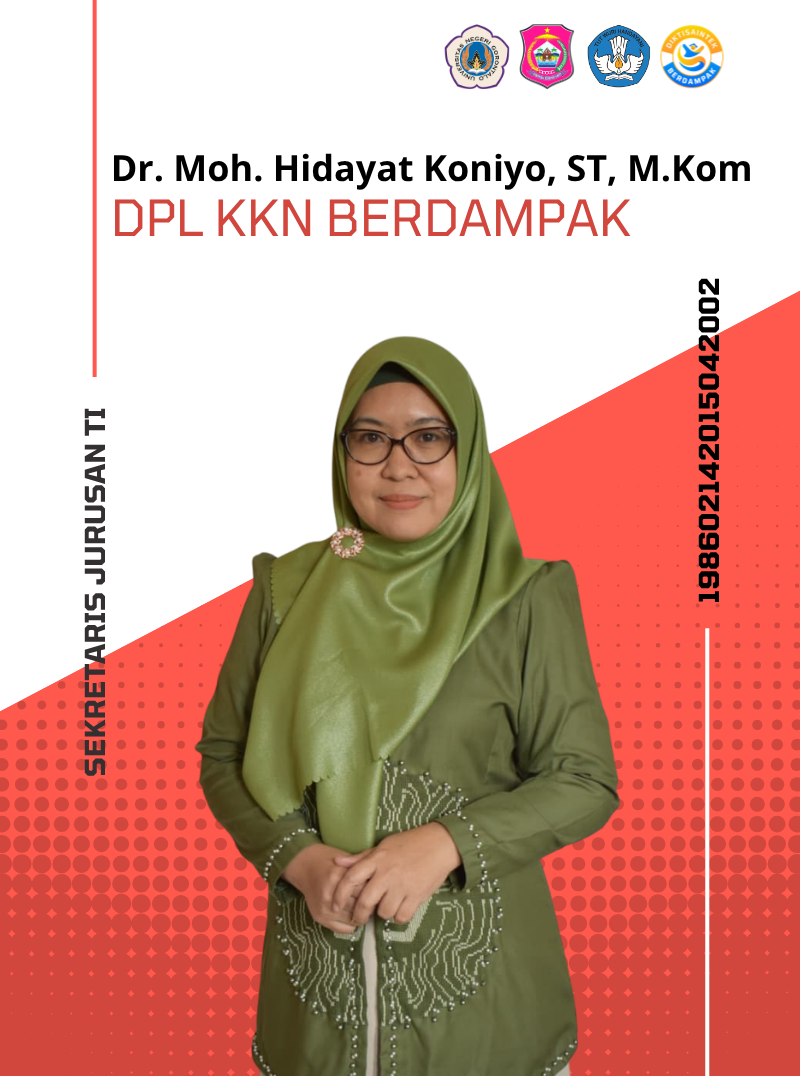
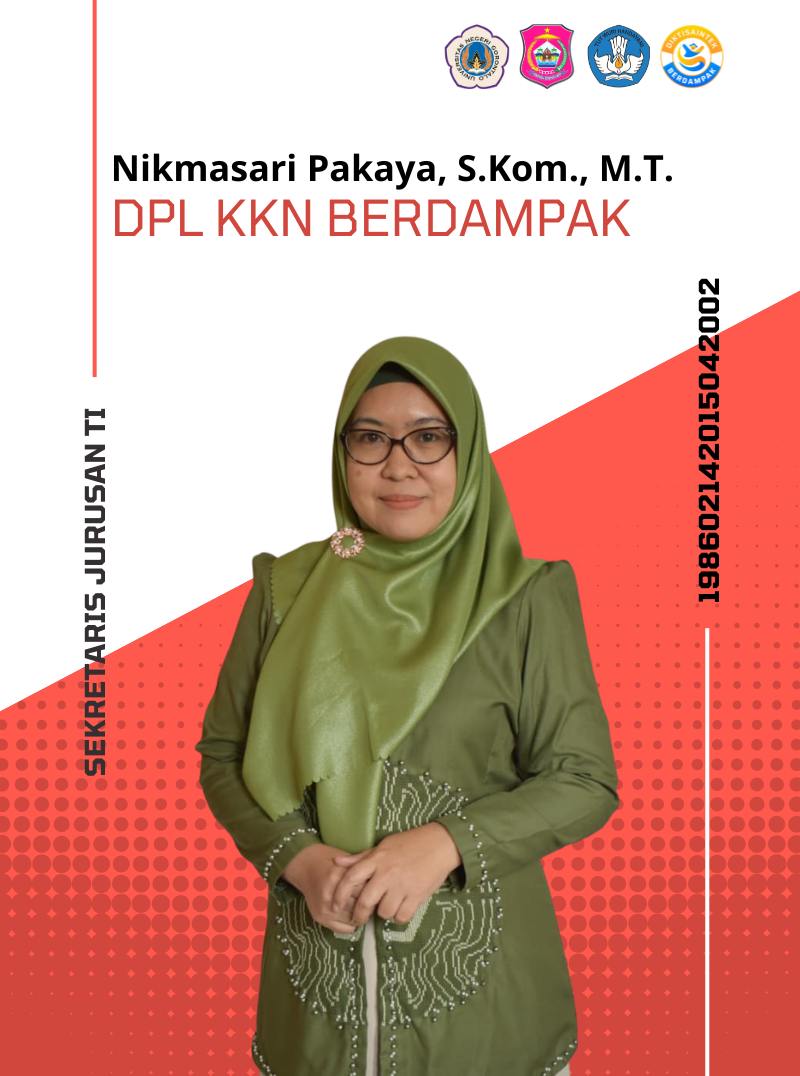
Feat: update & Fix foto anggota✅

Changed region(s): [[0.1562, 0.1227, 0.9375, 0.184], [0.75, 0.0613, 0.7812, 0.092]]

diff --git a/app/data/anggota.ts b/app/data/anggota.ts
@@ -20,7 +20,7 @@ export const teamMembers: AnggotaItem[] = [
     slug: 'i-wayan-arya-aditya',
     name: 'I Wayan Arya Aditya',
     role: 'Koordinator Desa',
-    photo: '/anggota/KORDES.png',
+    photo: '/anggota/wayan.png',
     instagram: '#',
     linkedin: '#',
     email: 'wayan@kkn.ac.id',
@@ -32,7 +32,7 @@ export const teamMembers: AnggotaItem[] = [
     slug: 'rizki-ibrahim',
     name: 'Rizki Ibrahim',
     role: 'Wakil Koordinator Desa',
-    photo: '/anggota/WAKORDES.png',
+    photo: '/anggota/rizky.png',
     instagram: '#',
     linkedin: '#',
     email: 'rizki@kkn.ac.id',
@@ -44,7 +44,7 @@ export const teamMembers: AnggotaItem[] = [
     slug: 'Nazly-siti-zulaiha-napu',
     name: 'Nazly siti zulaiha Napu',
     role: 'Sekretaris',
-    photo: '/anggota/SEKRETARIS.png',
+    photo: '/anggota/nazly.png',
     instagram: '#',
     email: 'nazly@kkn.ac.id',
     nim: '531423006',
@@ -55,7 +55,7 @@ export const teamMembers: AnggotaItem[] = [
     slug: 'suci-rahmawaty-utina',
     name: 'Suci Rahmawaty Utina',
     role: 'Bendahara',
-    photo: '/anggota/BENDAHARA.png',
+    photo: '/anggota/suci.png',
     instagram: '#',
     linkedin: '#',
     nim: '531423024',
@@ -66,7 +66,7 @@ export const teamMembers: AnggotaItem[] = [
     slug: 'alya-awaliyah-tokalang',
     name: 'Alya Awaliyah Tokalang',
     role: 'Koordinator Acara',
-    photo: '/anggota/ACARA.png',
+    photo: '/anggota/alya.png',
     instagram: '#',
     nim: '531423013',
     bio: 'Memastikan kebutuhan logistik lapangan terpenuhi selama kegiatan berlangsung di lokasi program.'
@@ -76,7 +76,7 @@ export const teamMembers: AnggotaItem[] = [
     slug: 'rashyid-ridho-akuba',
     name: 'Rashyaid Ridho Akuba',
     role: 'Koordinator Humas',
-    photo: '/anggota/PUBDOK.png',
+    photo: '/anggota/ridho.png',
     instagram: '#',
     linkedin: '#',
     nim: '531423077',
@@ -87,7 +87,7 @@ export const teamMembers: AnggotaItem[] = [
     slug: 'zulvkry-andre-lantu',
     name: 'Zulvkry Andre Lantu',
     role: 'Koordinator Perlengkapan',
-    photo: '/anggota/PERLENGKAPAN.png',
+    photo: '/anggota/andre.png',
     instagram: '#',
     nim: '531423083',
     bio: 'Mendokumentasikan setiap kegiatan agar hasil program dapat dipublikasikan dengan baik.'
@@ -97,7 +97,7 @@ export const teamMembers: AnggotaItem[] = [
     slug: 'alif-bima-pradana',
     name: 'Alif Bima Pradana',
     role: 'Anggota',
-    photo: '/anggota/ANGGOTA.png',
+    photo: '/anggota/alif.png',
     instagram: 'https://www.instagram.com/alifbimapradana07/',
     linkedin: 'https://www.linkedin.com/in/alif-bima-pradana/',
     github: 'https://github.com/4lifbima/',
@@ -111,7 +111,7 @@ export const teamMembers: AnggotaItem[] = [
     slug: 'raya-rizali-mutawakkil-mantau',
     name: 'Raya Rizali Mutawakkil Mantau',
     role: 'Anggota',
-    photo: '/anggota/ANGGOTA-2.png',
+    photo: '/anggota/raya.png',
     instagram: '#',
     linkedin: '#',
     nim: '531423054',
@@ -122,7 +122,7 @@ export const teamMembers: AnggotaItem[] = [
     slug: 'ilham-ts-bullah',
     name: 'Ilham TS Bullah',
     role: 'Anggota',
-    photo: '/anggota/ANGGOTA-3.png',
+    photo: '/anggota/ilham.png',
     instagram: '#',
     linkedin: '#',
     nim: '531423078',
@@ -133,7 +133,7 @@ export const teamMembers: AnggotaItem[] = [
     slug: 'sitti-rahwati-moki',
     name: 'Sitti Rahwati Moki',
     role: 'Anggota',
-    photo: '/anggota/ANGGOTA-4.png',
+    photo: '/anggota/awa-moki.png',
     instagram: '#',
     linkedin: '#',
     nim: '531423017',
@@ -144,7 +144,7 @@ export const teamMembers: AnggotaItem[] = [
     slug: 'sri-wahyuni-j-mahadi',
     name: 'Sri Wahyuni J. Mahadi',
     role: 'Anggota',
-    photo: '/anggota/ANGGOTA-5.png',
+    photo: '/anggota/yuni.png',
     instagram: '#',
     linkedin: '#',
     nim: '531423039',
@@ -155,7 +155,7 @@ export const teamMembers: AnggotaItem[] = [
     slug: 'dea-maharani-r-yunus',
     name: 'Dea Maharani R. Yunus',
     role: 'Anggota',
-    photo: '/anggota/ANGGOTA-6.png',
+    photo: '/anggota/dea.png',
     instagram: '#',
     linkedin: '#',
     nim: '531423011',
